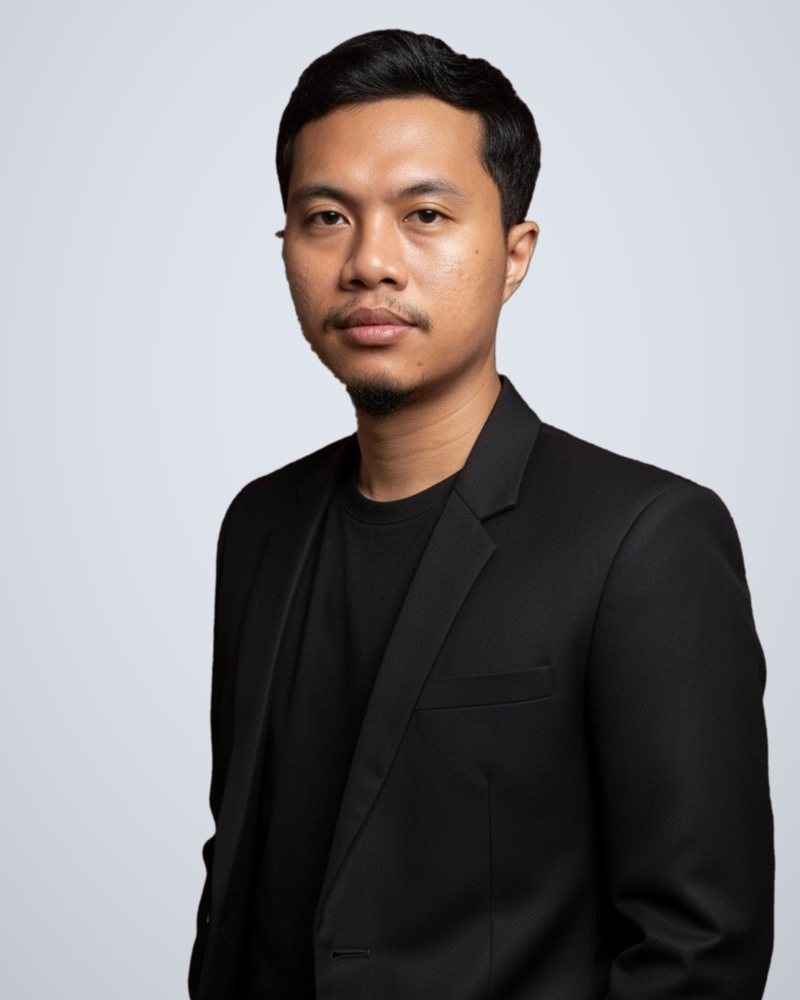
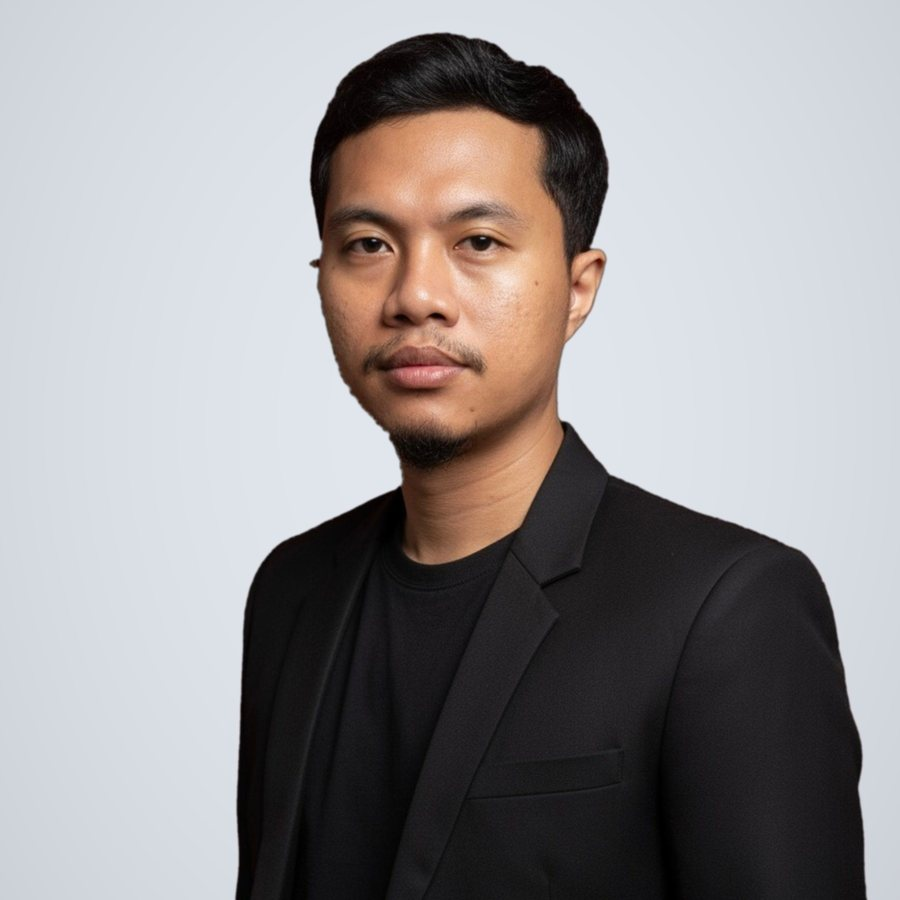
Add files via upload

diff --git a/assets/css/style.css b/assets/css/style.css
@@ -16,7 +16,7 @@
   --sans:"Inter",system-ui,-apple-system,"Segoe UI",Roboto,Arial,sans-serif;
   --tampil:"Inter Display","Inter",system-ui,-apple-system,"Segoe UI",Roboto,Arial,sans-serif;
   --serif:"Lora",Georgia,"Times New Roman",serif;
-  --lebar:1120px;
+  --lebar:1280px;
   --gutter:clamp(20px,5vw,48px);
 }
 *,*::before,*::after{box-sizing:border-box}
@@ -42,7 +42,7 @@ h1,h2,h3{font-family:var(--tampil);color:var(--navy);margin:0;font-weight:600}
 
 /* Hero */
 .hero{padding:clamp(48px,9vw,112px) 0 clamp(40px,7vw,88px)}
-.hero-grid{display:grid;grid-template-columns:minmax(0,1.55fr) minmax(0,.85fr);gap:clamp(32px,6vw,88px);align-items:end}
+.hero-grid{display:grid;grid-template-columns:minmax(0,1.05fr) minmax(0,.95fr);gap:clamp(32px,5vw,72px);align-items:center}
 .nama{font-size:clamp(3rem,9.2vw,7.6rem);line-height:.95;letter-spacing:-.035em;font-weight:600}
 .nama span{display:block}
 .garis-hero{height:3px;width:clamp(72px,12vw,148px);background:var(--teal);margin:clamp(24px,3.5vw,40px) 0 22px;transform-origin:left;animation:tarik .9s .15s cubic-bezier(.2,.7,.2,1) both}
@@ -56,8 +56,8 @@ h1,h2,h3{font-family:var(--tampil);color:var(--navy);margin:0;font-weight:600}
 .tombol-utama:hover{background:#1B3A63;border-color:#1B3A63}
 .tombol-garis{color:var(--navy);background:transparent}
 .tombol-garis:hover{background:var(--navy);color:#fff}
-.foto{margin:0}
-.foto img,.foto-sementara{aspect-ratio:4/5;width:100%;object-fit:cover}
+.foto{margin:0;justify-self:end;width:100%;max-width:560px}
+.foto img,.foto-sementara{aspect-ratio:1/1;width:100%;height:auto;object-fit:cover}
 .foto-sementara{background:var(--navy);display:grid;place-items:center}
 .foto-sementara span{font-family:var(--tampil);font-weight:500;color:rgba(255,255,255,.88);font-size:clamp(3rem,7vw,5.5rem);letter-spacing:.04em}
 

diff --git a/index.html b/index.html
@@ -86,7 +86,7 @@
       </div>
     </div>
     <figure class="foto">
-      <img src="assets/img/moch-rosyihani.jpg" alt="Foto Moch Rosyihani" width="800" height="1000" fetchpriority="high">
+      <img src="assets/img/moch-rosyihani.jpg" alt="Foto Moch Rosyihani" width="900" height="900" fetchpriority="high">
     </figure>
   </div>
 </section>
